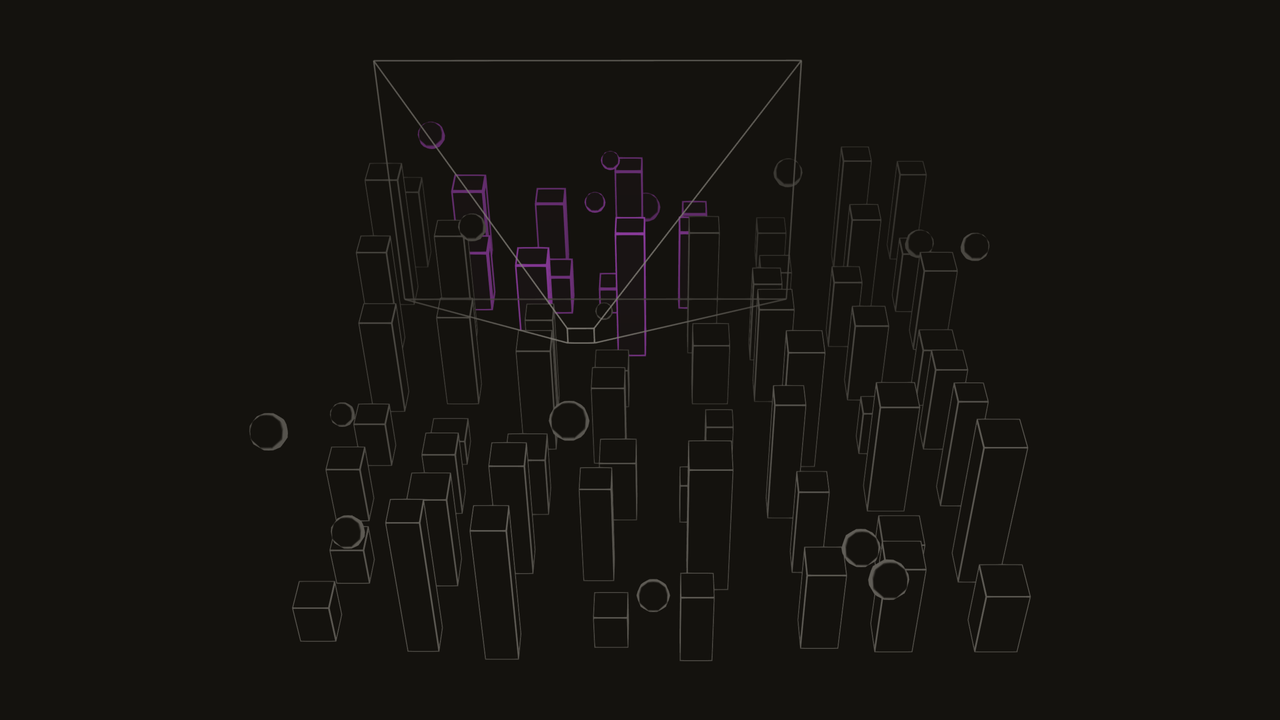
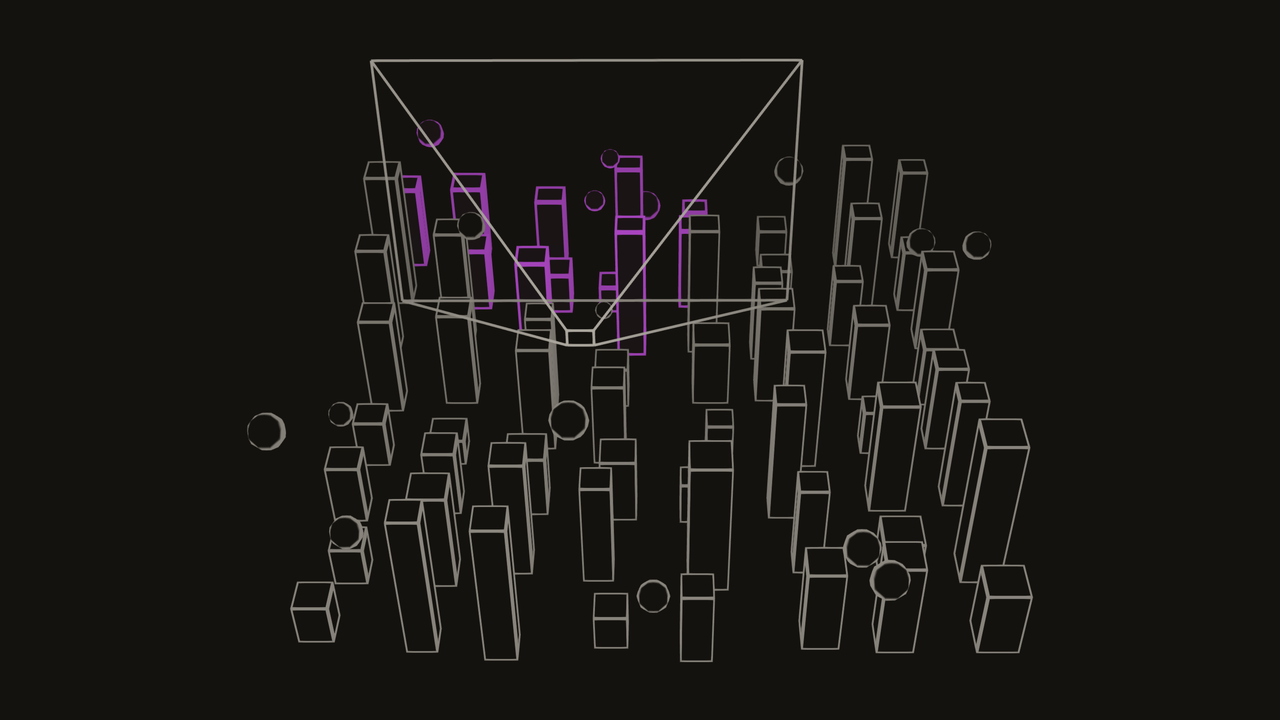
Strengthen frustum outlines at thumbnail size

diff --git a/examples/src/example-frustum-culling.ts b/examples/src/example-frustum-culling.ts
@@ -288,13 +288,14 @@ function createField(geometry: g.Geometry, count: number, box: boolean) {
     const vTint = g.varying(shading.yzw, 'v_tint');
     const uv = g.varying(g.attribute('uv', d.vec2f), 'v_uv');
     const edge = box
-        ? g.max(isoline(uv.x, 1.1), isoline(uv.y, 1.1))
+        ? g.max(isoline(uv.x, 2.4), isoline(uv.y, 2.4))
         : g.f32(1).sub(g.smoothstep(g.f32(0.35), g.f32(0.55), vNormal.z.abs()));
-    const seenEdge = box ? g.max(isoline(uv.x, 2.2), isoline(uv.y, 2.2)) : edge;
-    const unseenColor = g.mix(ink(palette.base), light, edge.mul(g.f32(0.4)));
+    const seenEdge = box ? g.max(isoline(uv.x, 3.6), isoline(uv.y, 3.6)) : edge;
+    const unseenColor = g.mix(ink(palette.base), light, edge.mul(g.f32(0.6)));
     const seenColor = g.mix(ink(palette.base), vTint, g.f32(0.045).add(seenEdge.mul(g.f32(0.95))));
     const color = g.mix(unseenColor, seenColor, vSeen);
-    const mesh = new g.Mesh(geometry, new g.Material({ vertex: clip, fragment: g.vec4(depthInk(color, world, 6), g.f32(1)) }));
+    const shaded = g.mix(color, depthInk(color, world, 6), g.f32(0.6));
+    const mesh = new g.Mesh(geometry, new g.Material({ vertex: clip, fragment: g.vec4(shaded, g.f32(1)) }));
     mesh.count = count;
     scene.add(mesh);
 
@@ -334,7 +335,11 @@ orbField.extentBuffer.needsUpdate = true;
 // the twelve edges of the eight corners: near ring, far ring, and the struts
 const EDGES = [0, 1, 1, 2, 2, 3, 3, 0, 4, 5, 5, 6, 6, 7, 7, 4, 0, 4, 1, 5, 2, 6, 3, 7];
 
-const coneMaterial = new g.LineMaterial({ color: g.vec4(lineInk(light, 6), g.f32(0.8)), lineWidth: pixels(1.1), transparent: true });
+const coneMaterial = new g.LineMaterial({
+    color: g.vec4(g.mix(light, lineInk(light, 6), g.f32(0.6)), g.f32(0.95)),
+    lineWidth: pixels(2),
+    transparent: true,
+});
 coneMaterial.depthTest = false;
 coneMaterial.depthWrite = false;
 
